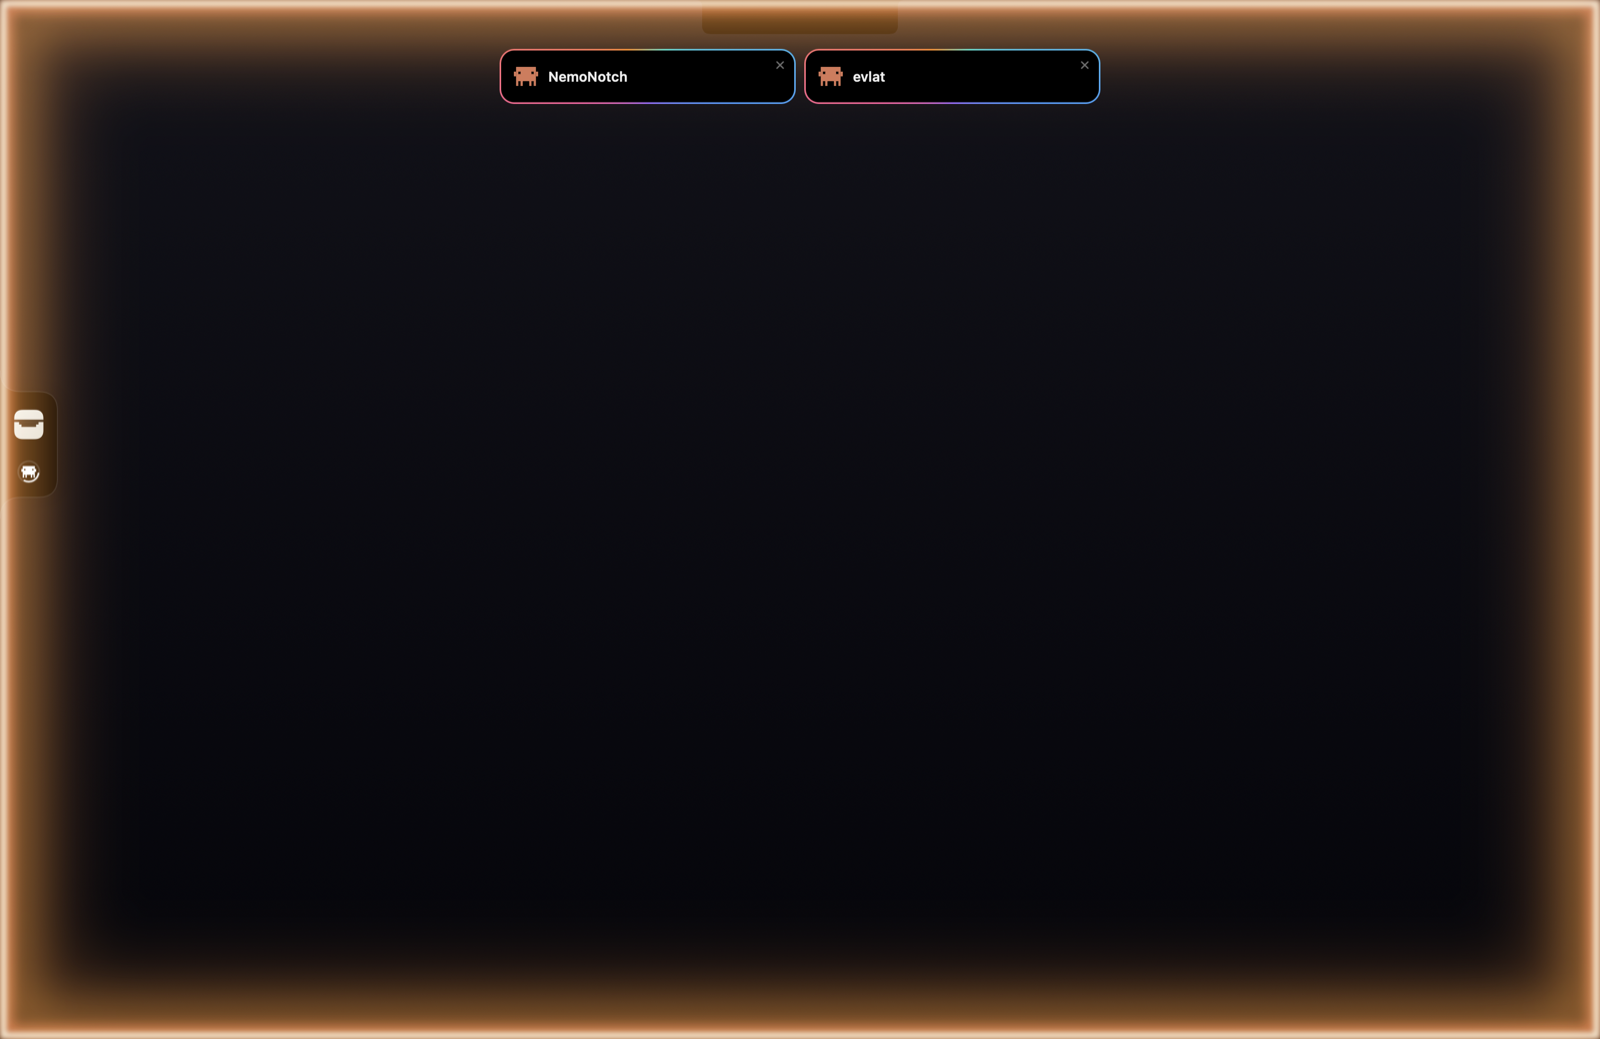
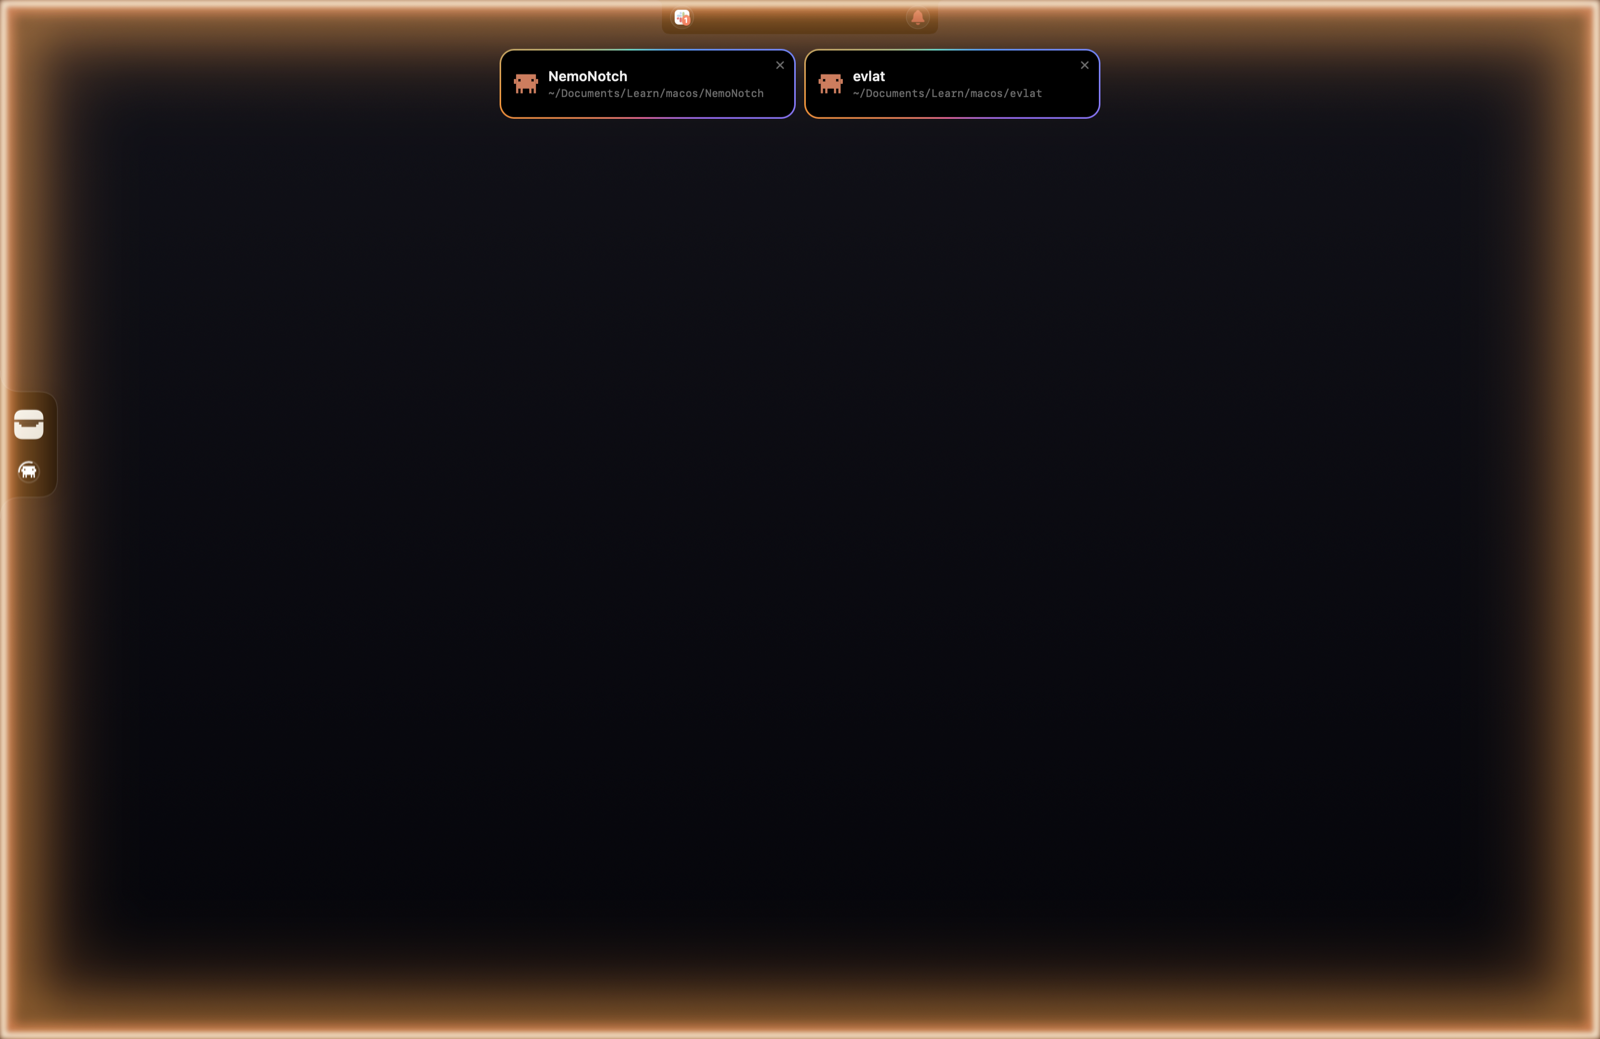
docs: toast path line in README and screenshot

Changed region(s): [[0.3125, 0.0616, 0.6875, 0.1232], [0.4062, 0.0, 0.4375, 0.0308]]

diff --git a/README.md b/README.md
@@ -56,7 +56,7 @@ An interactive floating panel for the MacBook notch area, turning the notch into
 - **Smart Auto-Switch** — Automatically selects the active tab (AI working, music playing, etc.; while the AI status bar is on, a working AI session no longer pulls the notch to the AI tab)
 - **AI Status Bar** — One ring per running AI session, docked to the screen's left or right edge, or floating anywhere as a horizontal capsule: drag it off the edge to float it, drop it near an edge to dock it. Hover to see every session with its status and context share, usage quota (hover a provider for its windows' resets and pace) and a detail card (context window used, model, approve/deny, jump to the session's terminal). The moment a session starts waiting on a permission, the bar opens on its own with that session's card already up — Allow/Deny one click away, no delay — and folds itself away once every approval is answered (the first pointer entry hands the bar back to the cursor). A session parked at your prompt never forces the bar open; its card rises only on an already-open bar. A multi-choice ask (AskUserQuestion) is answered right on the card: one single-select question goes with a press on its option; multi-select and multi-question asks tick their picks and Send (a draft sends only when every question is answered). The answer rides the permission response as `updatedInput.answers` — Claude Code only. Optional usage alerts (Settings → 提醒与动效, off by default): when a provider's quota window passes your threshold (50–100%, default 80%) the bar opens with an alert card that stays until you press Got it — and the window's recovery is announced the same way.
 - **Activity Glow** — When AI/agents are busy (working, or waiting for approval), the expanded notch shows a soft blurred glow in the app's theme orange along its lower inner edge, fading out by the middle (content stays clean). While the AI status bar is on, the notch leaves AI sessions to the bar — no AI badges or AI glow on any screen (agents still show; the AI tab still lists every session)
-- **Completion Flash** — When an AI session or agent finishes a turn (working→idle), NemoNotch plays a one-shot full-screen accent-orange edge glow on all screens, plus a toast card hanging under the notch on every screen — one card per finished session/agent, side by side (up to 4; a newer one replaces the oldest). Each card has a slowly rotating color ring so it stands out even on a black wallpaper, stays 5 minutes, hovering the row pauses the timers, and every card has a close button. Pomodoro phase-end alerts raise the same toast. Rapid completions are throttled: each still gets its card, but the flash does not replay. Toggleable in Settings.
+- **Completion Flash** — When an AI session or agent finishes a turn (working→idle), NemoNotch plays a one-shot full-screen accent-orange edge glow on all screens, plus a toast card hanging under the notch on every screen — one card per finished session/agent (AI sessions also show the working directory they ran in), side by side (up to 4; a newer one replaces the oldest). Each card has a slowly rotating color ring so it stands out even on a black wallpaper, stays 5 minutes, hovering the row pauses the timers, and every card has a close button. Pomodoro phase-end alerts raise the same toast. Rapid completions are throttled: each still gets its card, but the flash does not replay. Toggleable in Settings.
 - **Event Alerts** — Bluetooth audio devices (headphones/speakers) connecting or disconnecting expand the collapsed notch itself, Dynamic-Island-style: a headphones glyph + device name springs open from the notch and folds back a few seconds later. Connecting or disconnecting the power adapter does the same with a green bolt + exact charge percent. Calendar events reaching their start time (lead time configurable: at start / 5 / 10 / 15 minutes ahead) raise the full-screen flash + toast with a calendar icon. All-day events are excluded; all alerts are toggleable in Settings.
 
   <p align="center">
